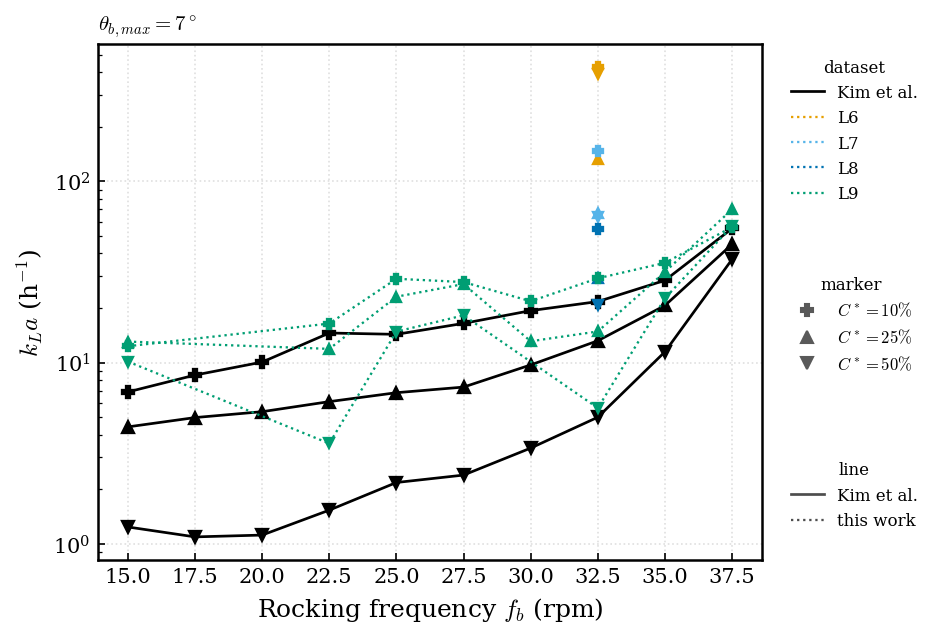
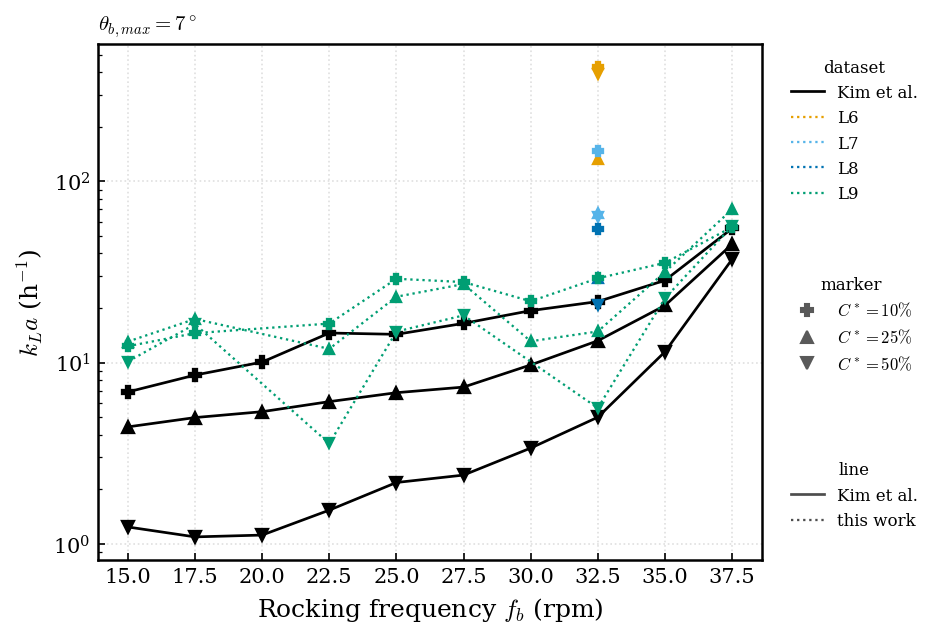
chore(replicas): refresh against the points that landed overnight
Figs 9 and 11 were drawn before fig9_l9_rpm17.5 finished, and Figs 10
and 12 did not exist because the angle sweep had no results yet; theta=7
and theta=6 have both completed.

Fig 9 at nine points contradicts the caveat written when it had six. It
looked like L9 crossed Kim's curves; with the low-rpm half in hand it
tracks them in parallel, dt95/Kim sitting at 0.66-0.74 for most points --
a consistent offset, not scatter. Three points break that: 25 and 27.5
rpm jump to ~1.1 between neighbours near 0.7, and 37.5 reaches 1.53.
README now says so instead of condemning the whole curve.

Fig 11 keeps its warning, which the extra points strengthen rather than
soften: the ratio to Kim swings 1.13-3.70 across rpm where his curve is
smooth, and the L6->L7->L8 column at 32.5 rpm is still falling with
refinement (10.1x, 5.1x, 2.2x), so L9 at 1.13x is unlikely to be
converged.

Claude-Session: https://claude.ai/code/session_01YAKLKMs5oUYu8r6RenvudK

diff --git a/experiments/kimetal2024/figure_replicas/README.md b/experiments/kimetal2024/figure_replicas/README.md
@@ -41,19 +41,38 @@ the bag, so A.16's `n_L = 2^8` is L8 and carries L8's colour.
 | 7, A.17 | oxygen transfer and the kLa fit | `fig9_l9_rpm32.5` | good |
 | 8(a) | τ and EDR against time, 3 cycles | `fig8_hist_l10` | **do not present — transient, see below** |
 | 8(b,c) | τ and EDR distributions at the peak instant | `fig8_hist_l10` | good |
-| 9 | mixing time against rpm | 6 of 10 L9 points | **partial, and see the caveat** |
-| 11 | kLa against rpm | same 6 points | **partial, not grid-converged** |
+| 9 | mixing time against rpm | 9 of 10 L9 points | good shape; two outliers |
+| 10 | mixing time against angle | 2 of 6 L9 points | **very partial** |
+| 11 | kLa against rpm | same 9 points | **not grid-converged** |
+| 12 | kLa against angle | 2 of 6 L9 points | **very partial** |
 | 13 | τ and EDR against rpm and angle | L6/L8/L9/L10 | strongest agreement in the set |
 | A.16(a,b) | velocity convergence with mesh | L6/L8/L10 | good |
 
 ## Caveats worth saying out loud
 
-**Fig 9 and 11 are six of ten points and do not behave.** L9 crosses Kim's
-curves rather than paralleling them: 27.5 rpm gives dt₉₅/Kim = 1.15 while
-30 rpm, its neighbour, gives 0.67. Non-monotone neighbours that far apart is a
-signal, not scatter. Fig 11 is worse — the L6→L7→L8 column at 32.5 rpm runs
-10.1× → 5.1× → 2.2× Kim, still falling with refinement, so L9 at 1.1× is
-probably not converged either. Do not present these as settled.
+**Fig 9 reads much better at nine points than it did at six, and the earlier
+verdict here was too harsh.** With only the high-rpm half present, L9 appeared
+to cross Kim's curves; with 15–37.5 rpm in hand it tracks them in parallel
+over most of the range. dt₉₅/Kim by rpm:
+
+    15    17.5   22.5   25     27.5   30     32.5   35     37.5
+    0.72  0.74   0.66   1.05   1.15   0.67   0.70   0.95   1.53
+
+Most points sit at 0.66–0.74, a consistent offset rather than scatter. Three
+do not: 25 and 27.5 rpm jump to ~1.1 while their neighbours stay near 0.7, and
+37.5 reaches 1.53. Those are the open question, not the whole curve. 20 rpm is
+still running.
+
+**Fig 11 is the weak one, and it is a convergence problem, not a sampling
+one.** The L6→L7→L8 column at 32.5 rpm runs 10.1× → 5.1× → 2.2× Kim, still
+falling with refinement, so L9 at 1.13× is probably not converged either. Its
+rpm dependence is also erratic where Kim's is smooth (2.96, 3.50, 1.96, 3.39,
+3.70, 1.35, 1.13, 1.53, 1.56 against his values). Do not present as settled.
+
+**Figs 10 and 12 are two of six angle points** (θ = 7 and 6) with θ = 5, 4, 3,
+2 queued. Two points do not make a trend; they are here because the scripts
+run and the numbers are reasonable (dt₅₀/Kim = 0.64 and 0.58; kLa₂₅ ratios
+1.14 and 1.07), not because the figures are ready.
 
 **Fig 8(a) was drawn on the wrong axis until 2026-09-21.** Kim's panel is a
 time evolution over three unfolded cycles (t/T_p = 80–83) with both quantities
